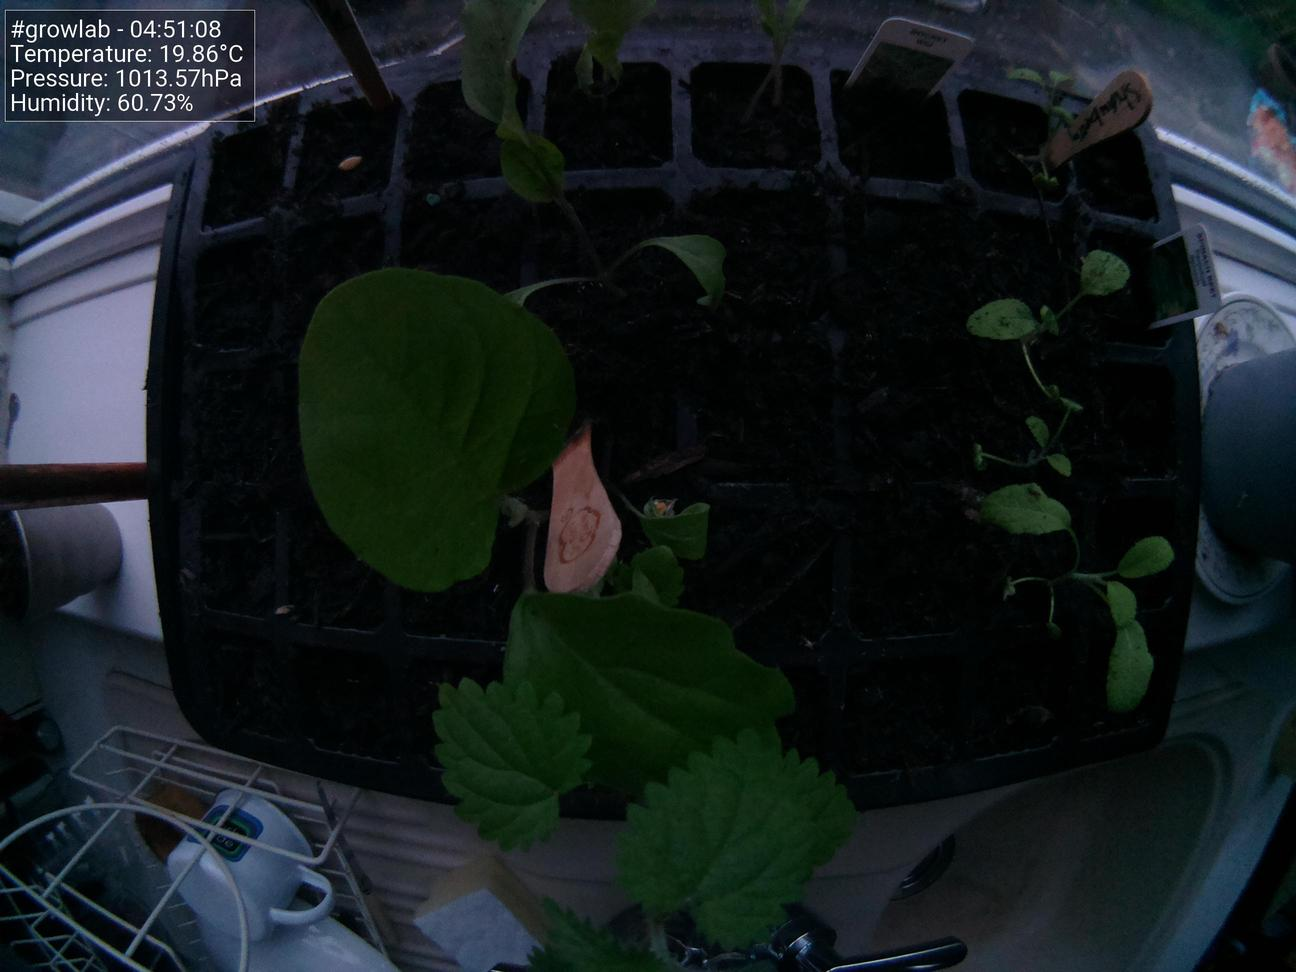
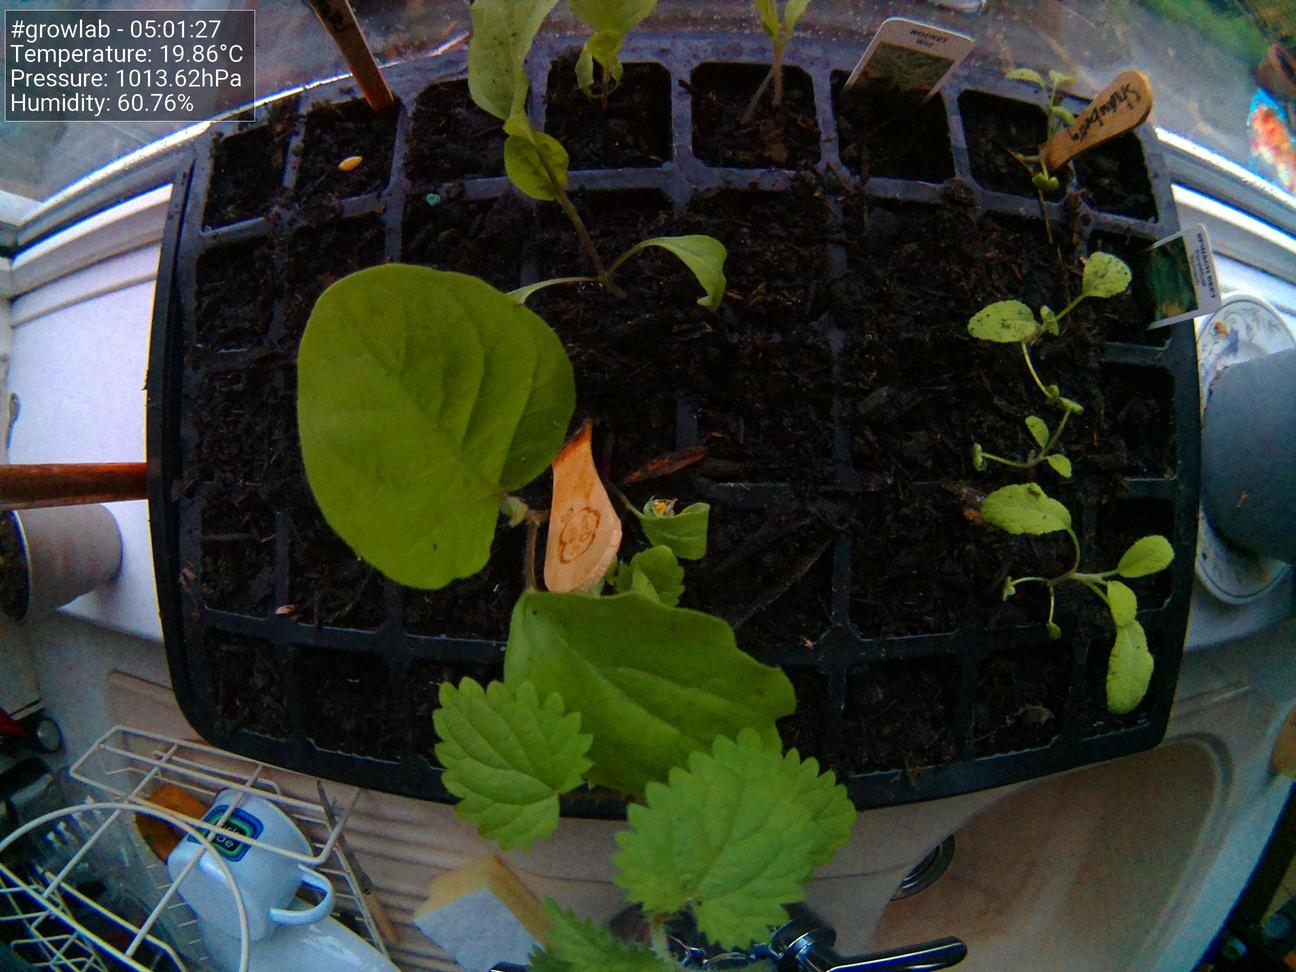
Update images at Wed 19 May 05:01:38 BST 2021

diff --git a/docs/index.html b/docs/index.html
@@ -38,7 +38,7 @@
                     <tbody>
                         <tr>
                             <td>Time</td>
-                            <td>04:51:08</td>
+                            <td>05:01:27</td>
                         </tr>
                         <tr>
                             <td>Temperature</td>
@@ -46,11 +46,11 @@
                         </tr>
                         <tr>
                             <td>Humidity</td>
-                            <td>60.73%</td>
+                            <td>60.76%</td>
                         </tr>
                         <tr>
                             <td>Pressure</td>
-                            <td>1013.57hPa</td>
+                            <td>1013.62hPa</td>
                         </tr>
                     </tbody>
                 </table>
@@ -58,7 +58,7 @@
 
                 <h5>Latest image</h5>
 		<div style="width: 85%;">
-	                <img class="figure-img img-fluid rounded" src="./preview.jpg?uid=1621396279.1228817">
+	                <img class="figure-img img-fluid rounded" src="./preview.jpg?uid=1621396898.5504825">
 		</div>
             </div>
         </div>
